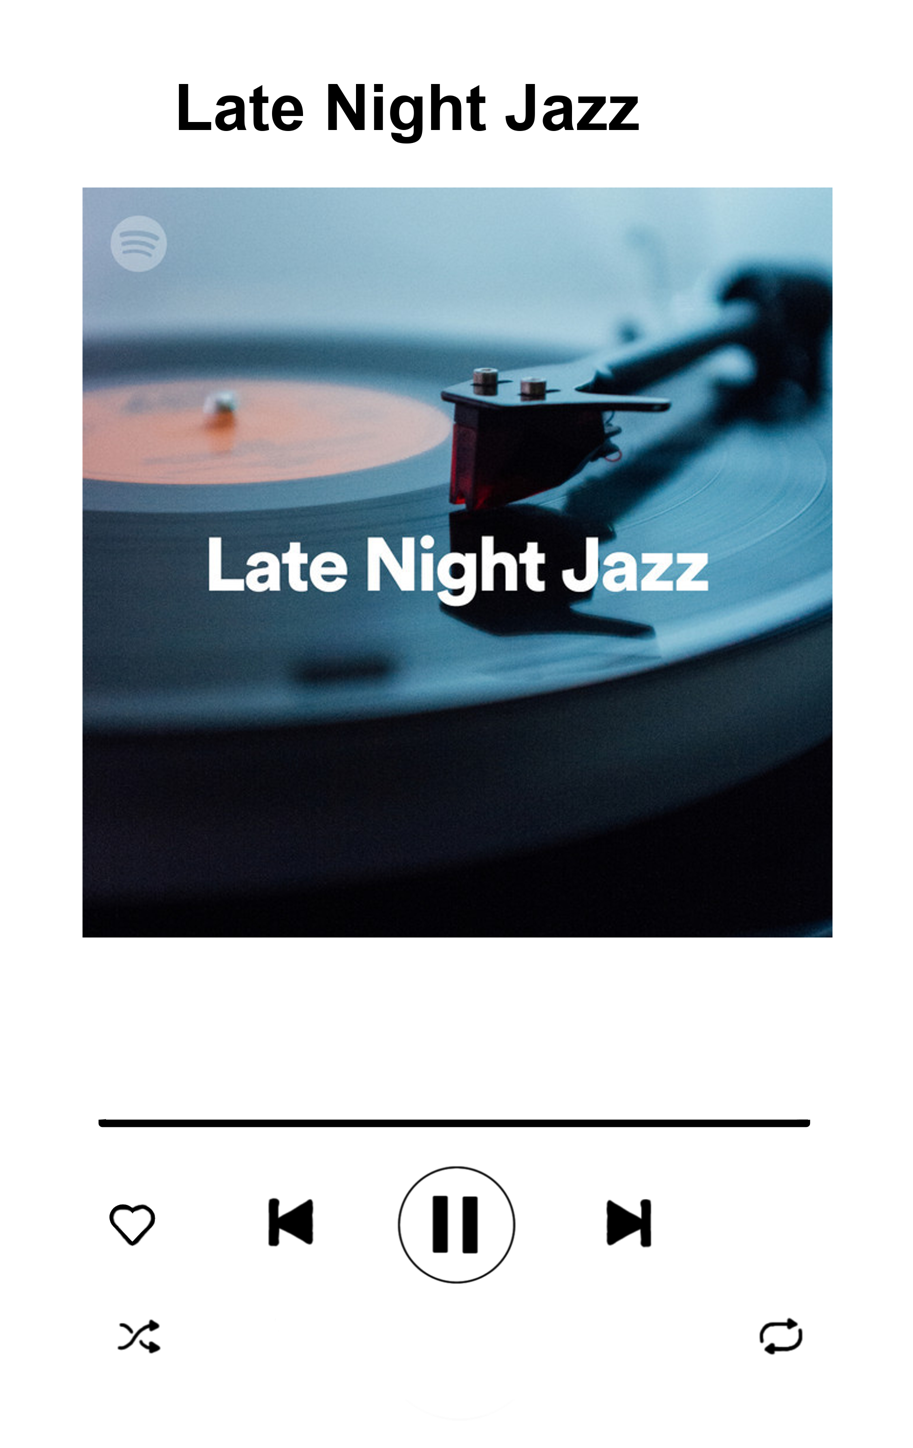
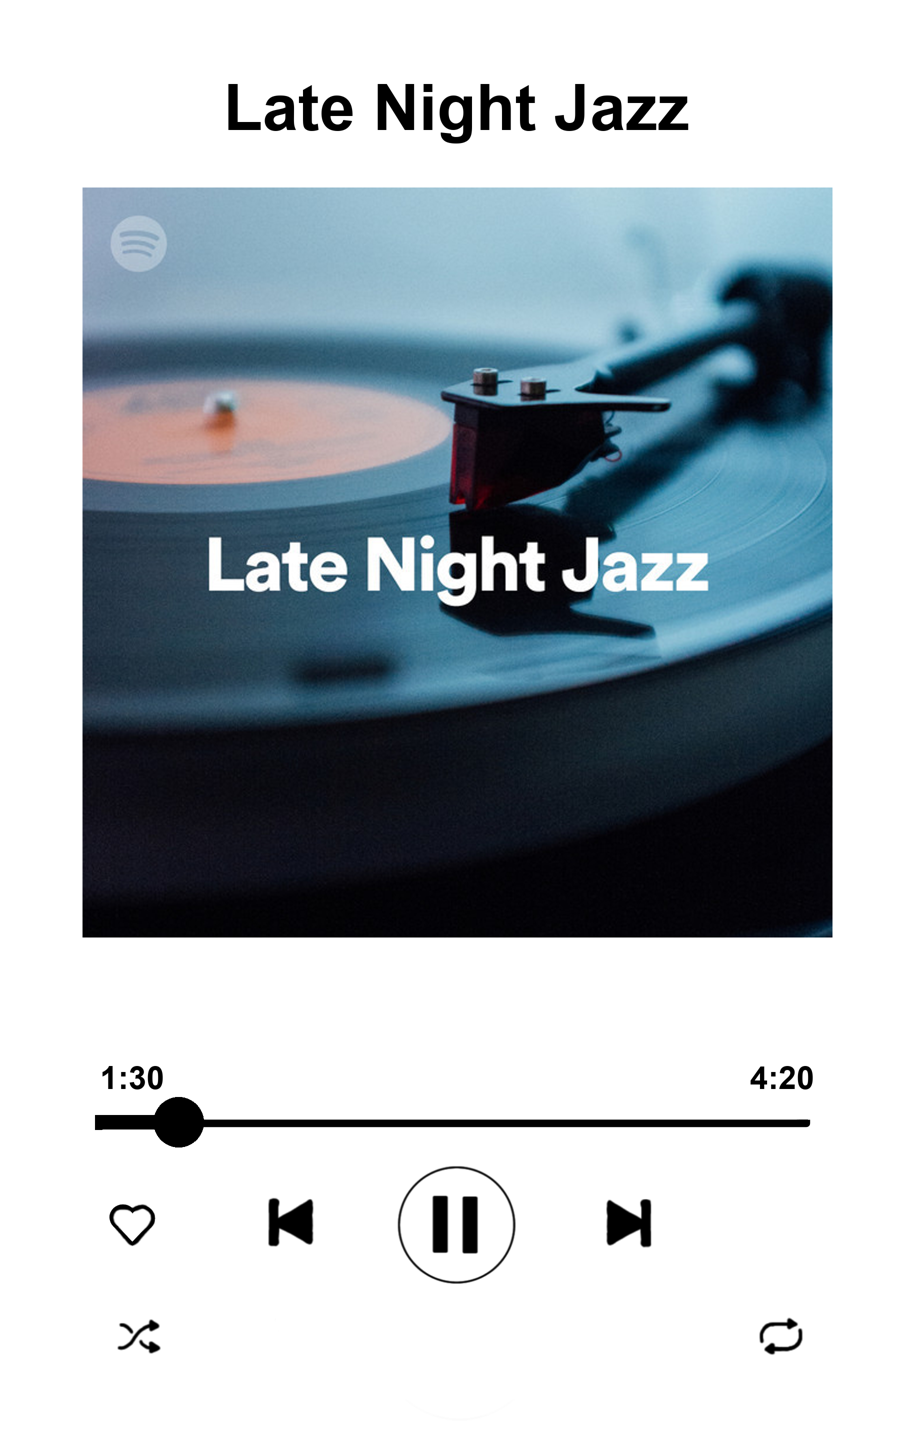
Added more graphics to card prints

Changed region(s): [[0.184, 0.0622, 0.7667, 0.1243], [0.092, 0.7148, 0.2147, 0.808], [0.828, 0.7148, 0.8894, 0.7769]]

diff --git a/genPhotos.py b/genPhotos.py
@@ -4,6 +4,8 @@ import spotipy                          # Spotipy's python module
 from spotipy.oauth2 import SpotifyOAuth # Allows authentication of Spotify
 import json                             # Used to input CardData.json
 from API_Key import API_KEY             # Allows constants across scripts
+import random                           # Used for track circle placement
+import numpy as np                      # Used to floor song duration played
 #~~~~~~~~~~~~~~~~~~~~~~~~~~~~~~~~~~~~~~~~~~~~~~~~~~~~~~~~~~~~~~~~~~~~~~~~~~~~~~
 """ Globally loaded constants """
 DEVICE_ID, CLIENT_ID, CLIENT_SECRET = API_KEY()
@@ -64,9 +66,23 @@ def genCardPhotos(PullSpotify):
         draw = ImageDraw.Draw(background)
         myFont = ImageFont.truetype("Arial Bold.ttf", 128)
         w, h = draw.textsize(tmp, font=myFont)
-        draw.text(((1629-w)/2, 0.05*2896), tmp, fill="black", font=myFont)
-        background = background.resize((913, 1448)) # Downsize to fit paper_template
+        draw.text(((1826-w)/2, 0.05*2896), tmp, fill="black", font=myFont)
 
+        # Add random duration slider
+        xloc = random.randint(190, 1620)
+        draw.rounded_rectangle((190, 2244, xloc, 2244), fill="yellow", outline="black",
+                           width=15, radius=3)
+        draw.ellipse((xloc-50, 2244-50, xloc+50, 2244+50), fill="black", outline="black")
+
+        # Add random length of song to card
+        songFont = ImageFont.truetype("Arial Bold.ttf", 64)
+        song_dur = random.randint(70, 360)
+        song_played = (xloc-190)/(1620-190) * song_dur
+        draw.text((200, 2120), f"{song_played/60:1.0f}:{song_played%60:02.0f}", fill="black", font=songFont)
+        draw.text((1500, 2120), f"{song_dur/60:1.0f}:{song_dur%60:02.0f}", fill="black", font=songFont)
+
+        # Downsize to fit paper_template and save
+        background = background.resize((913, 1448))
         background.save(f"images/cards/card_{tmp}.png")
 #~~~~~~~~~~~~~~~~~~~~~~~~~~~~~~~~~~~~~~~~~~~~~~~~~~~~~~~~~~~~~~~~~~~~~~~~~~~~~~
 def genPaperPrints():
